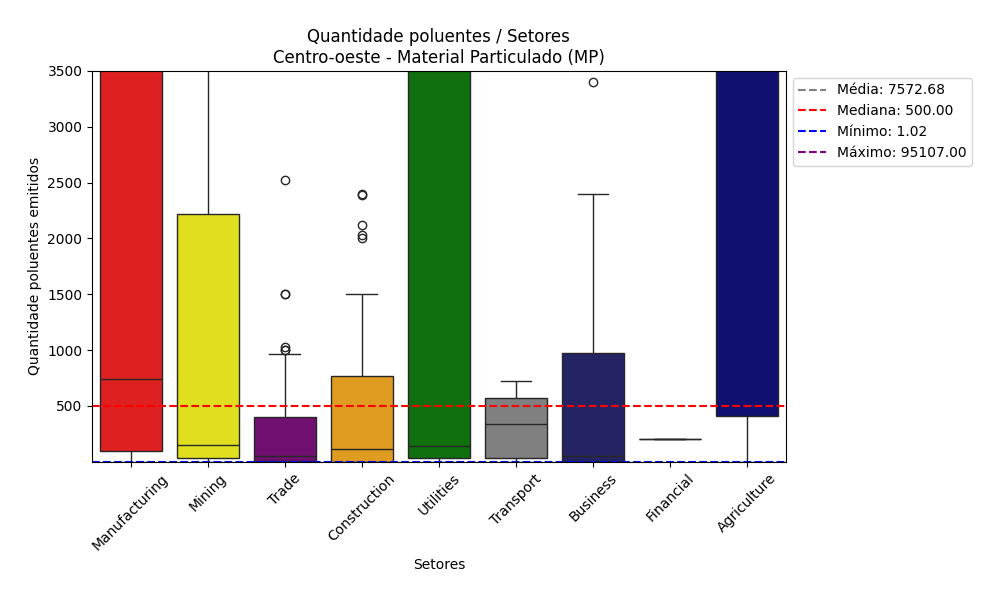
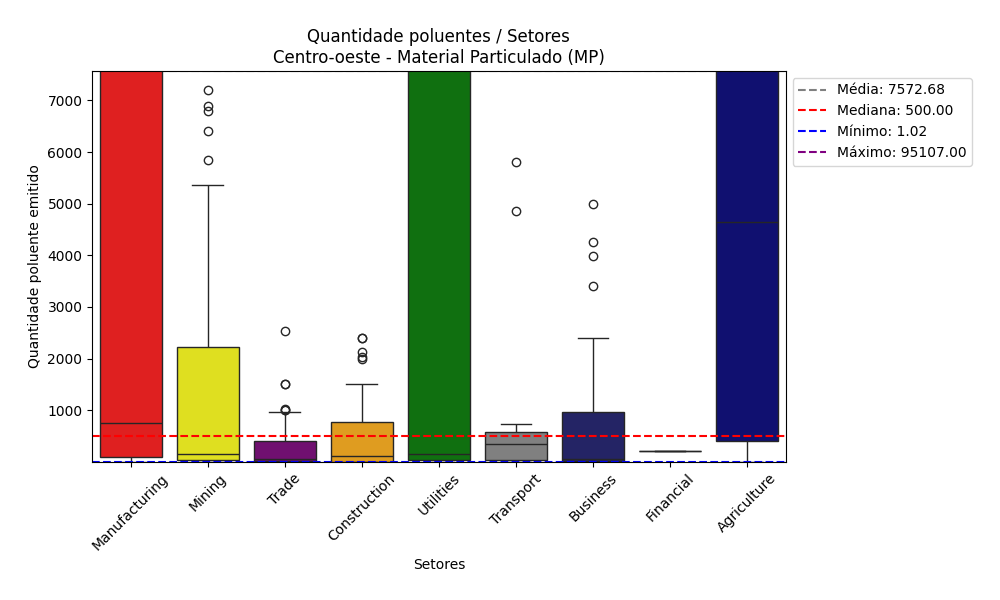
:recycle: update plots (2) :recycle:

diff --git a/filtros_grafico.py b/filtros_grafico.py
@@ -182,8 +182,8 @@ def gera_plots(data, csv_description=None):
     print(base4[indicador])
     csv_description = plot_boxplot(base4, y=indicador, number=number, 
                  title='Poluentes atmosféricos / Setores econômicos',
-                 ylim_superior=5000, description=True, des_data=csv_description,
-                 co2='Nacional', ylabel='Quantidade poluentes emitidos')
+                 ylim_superior=base4[indicador].mean(), description=True, des_data=csv_description,
+                 co2='Nacional', ylabel='Quantidade poluente emitido')
     number += 1
 
     # Gráfico - Teste para separar o tipo de poluente atmosférico:
@@ -202,8 +202,8 @@ def gera_plots(data, csv_description=None):
             if len(base) > 0:
                 csv_description = plot_boxplot(base, y=indicador, number=number,
                              region=region, poluente=poluente,
-                             ylim_superior=3500, description=True,
-                             des_data=csv_description, ylabel='Quantidade poluentes emitidos')
+                             ylim_superior=base[indicador].mean(), description=True,
+                             des_data=csv_description, ylabel='Quantidade poluente emitido')
                 number += 1
 
     # Gráfico 5 a 9 e 10 a 14 TD - poluentes atmosféricos por setores econômicos e por região (valores acima de zero)
@@ -263,8 +263,8 @@ def gera_plots(data, csv_description=None):
                 quantidade_empresas[key].to_csv(f'output/quantidade_empresas_{key}.csv', index=False)
                 
                 plot_boxplot(quantidade_empresas[key],
-                                y='razao', number=number, ylabel='Indicador por região',
-                                x='region', pallete=color_region, ylim_inferior=200, ylim_superior=150000,
+                                y='razao', number=number, ylabel='Razão',
+                                x='region', pallete=color_region, ylim_inferior=200, ylim_superior=quantidade_empresas[key]['razao'].mean(),
                                 title='Indicador / Região', xlabel='Regiões', co2=indicador)
                 number += 1
 
